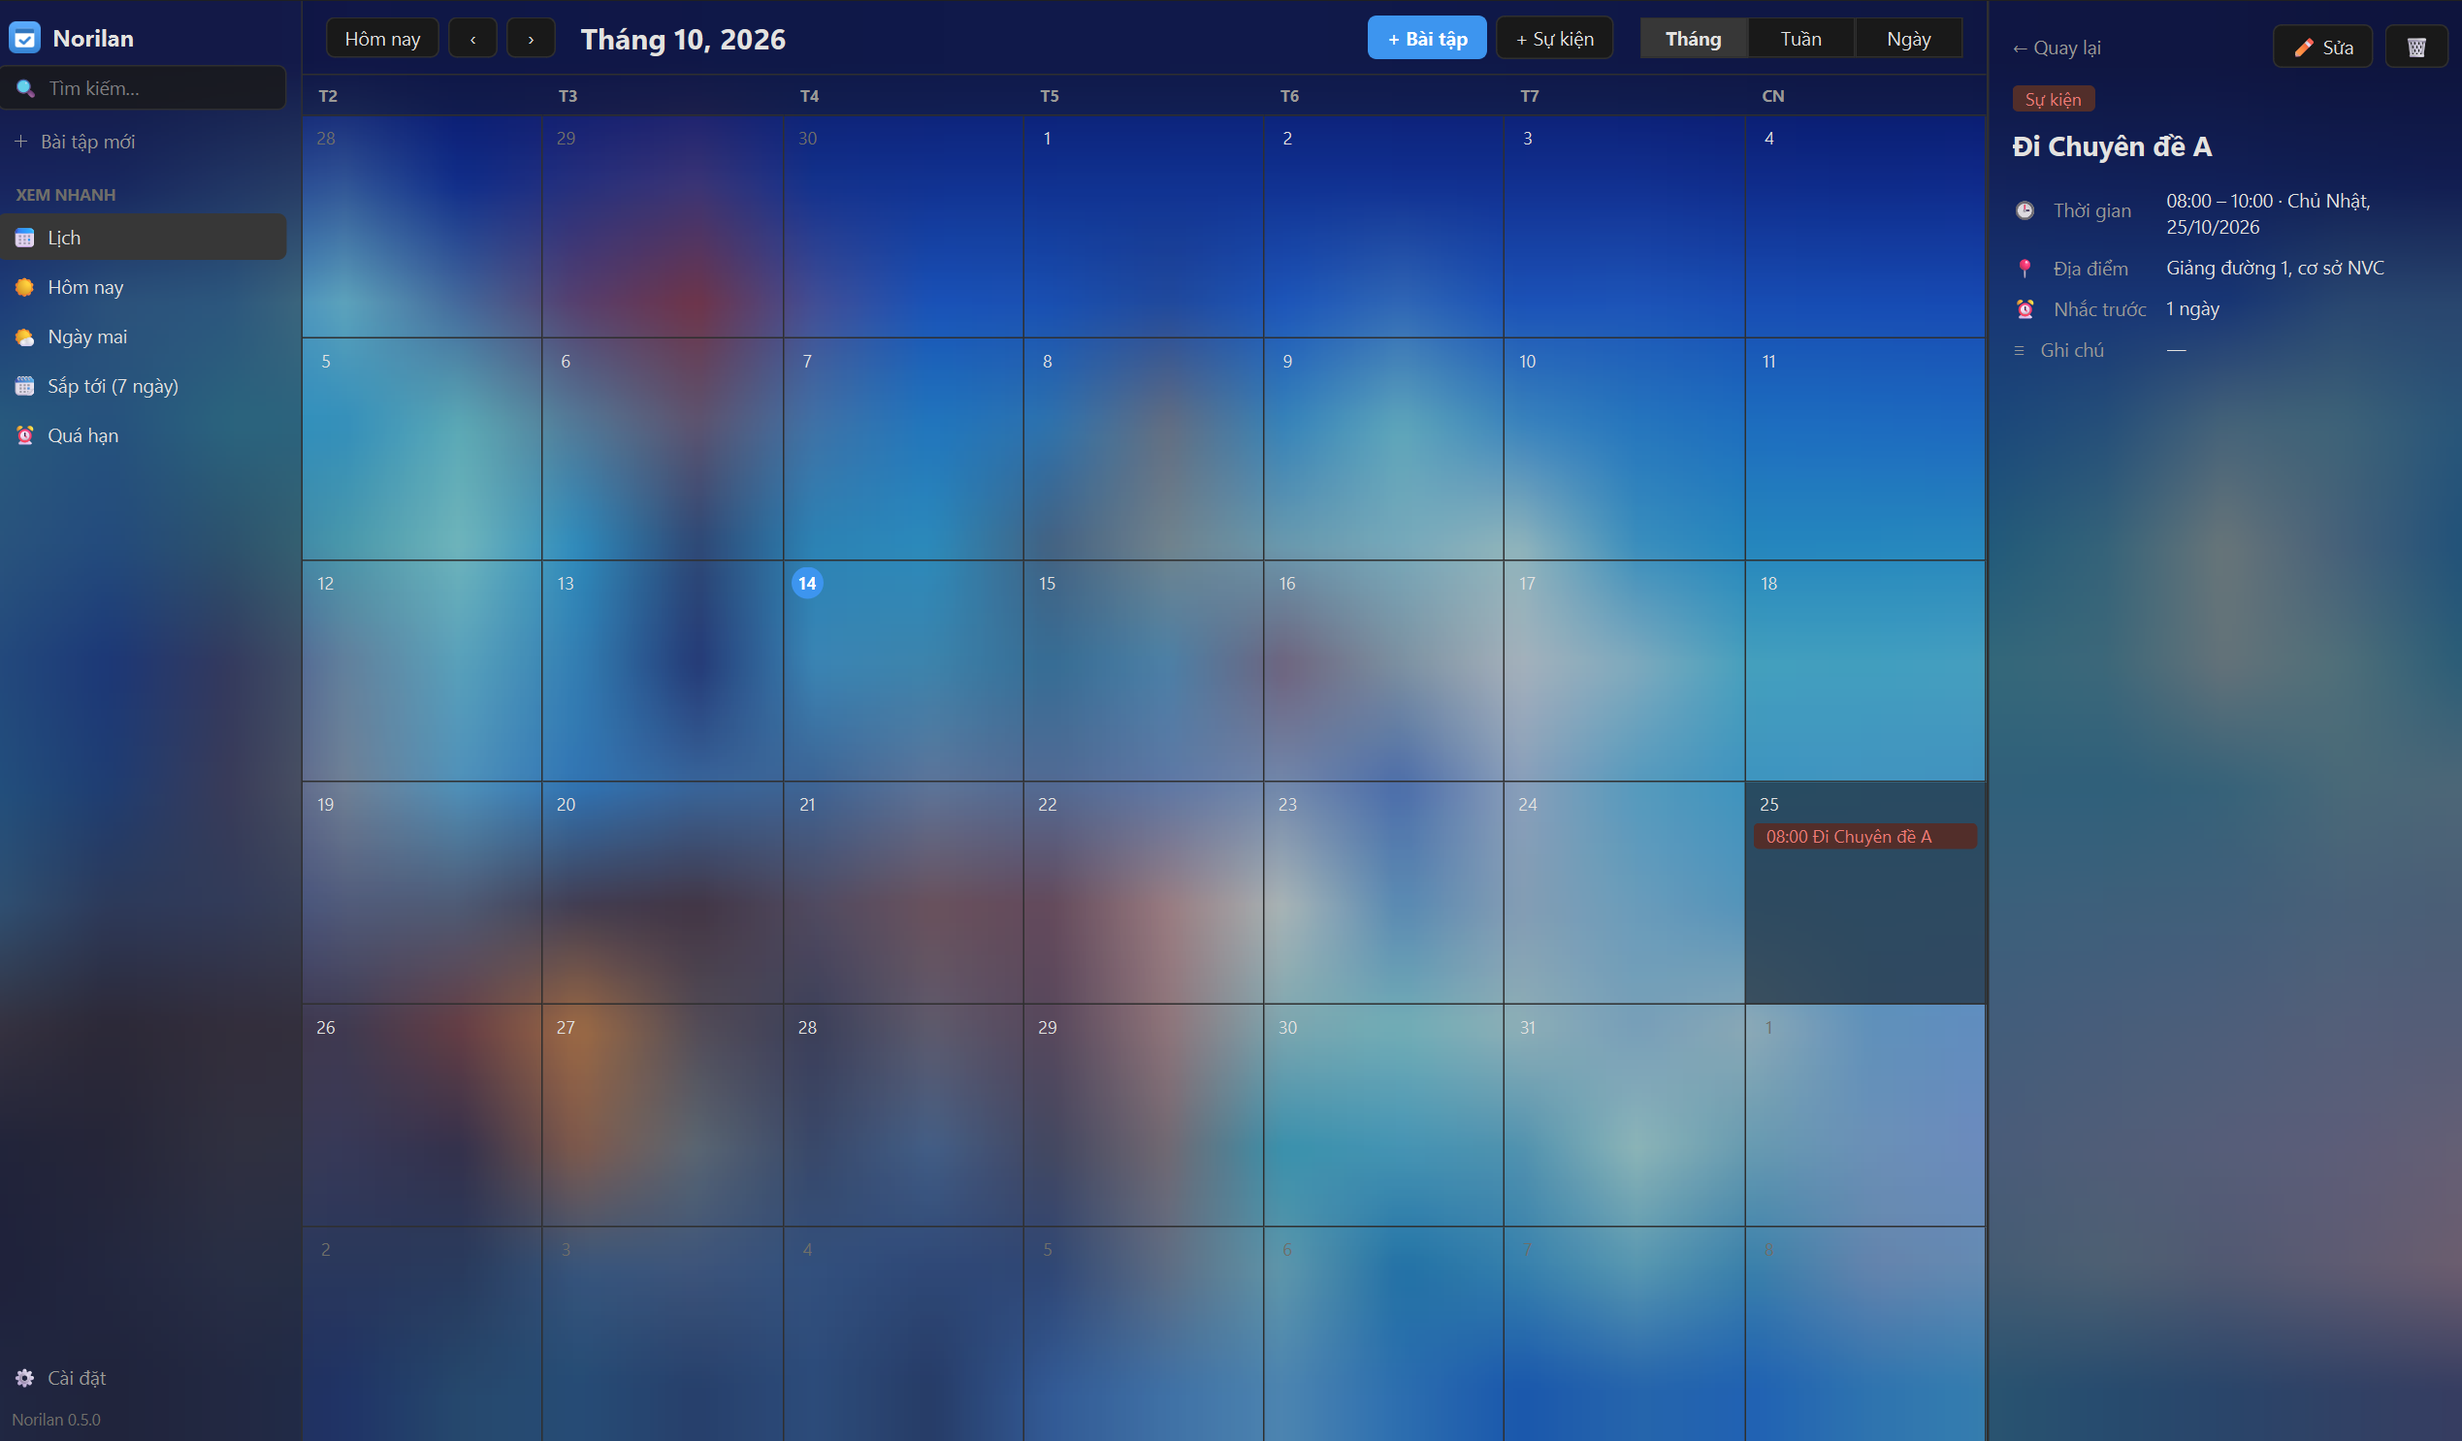
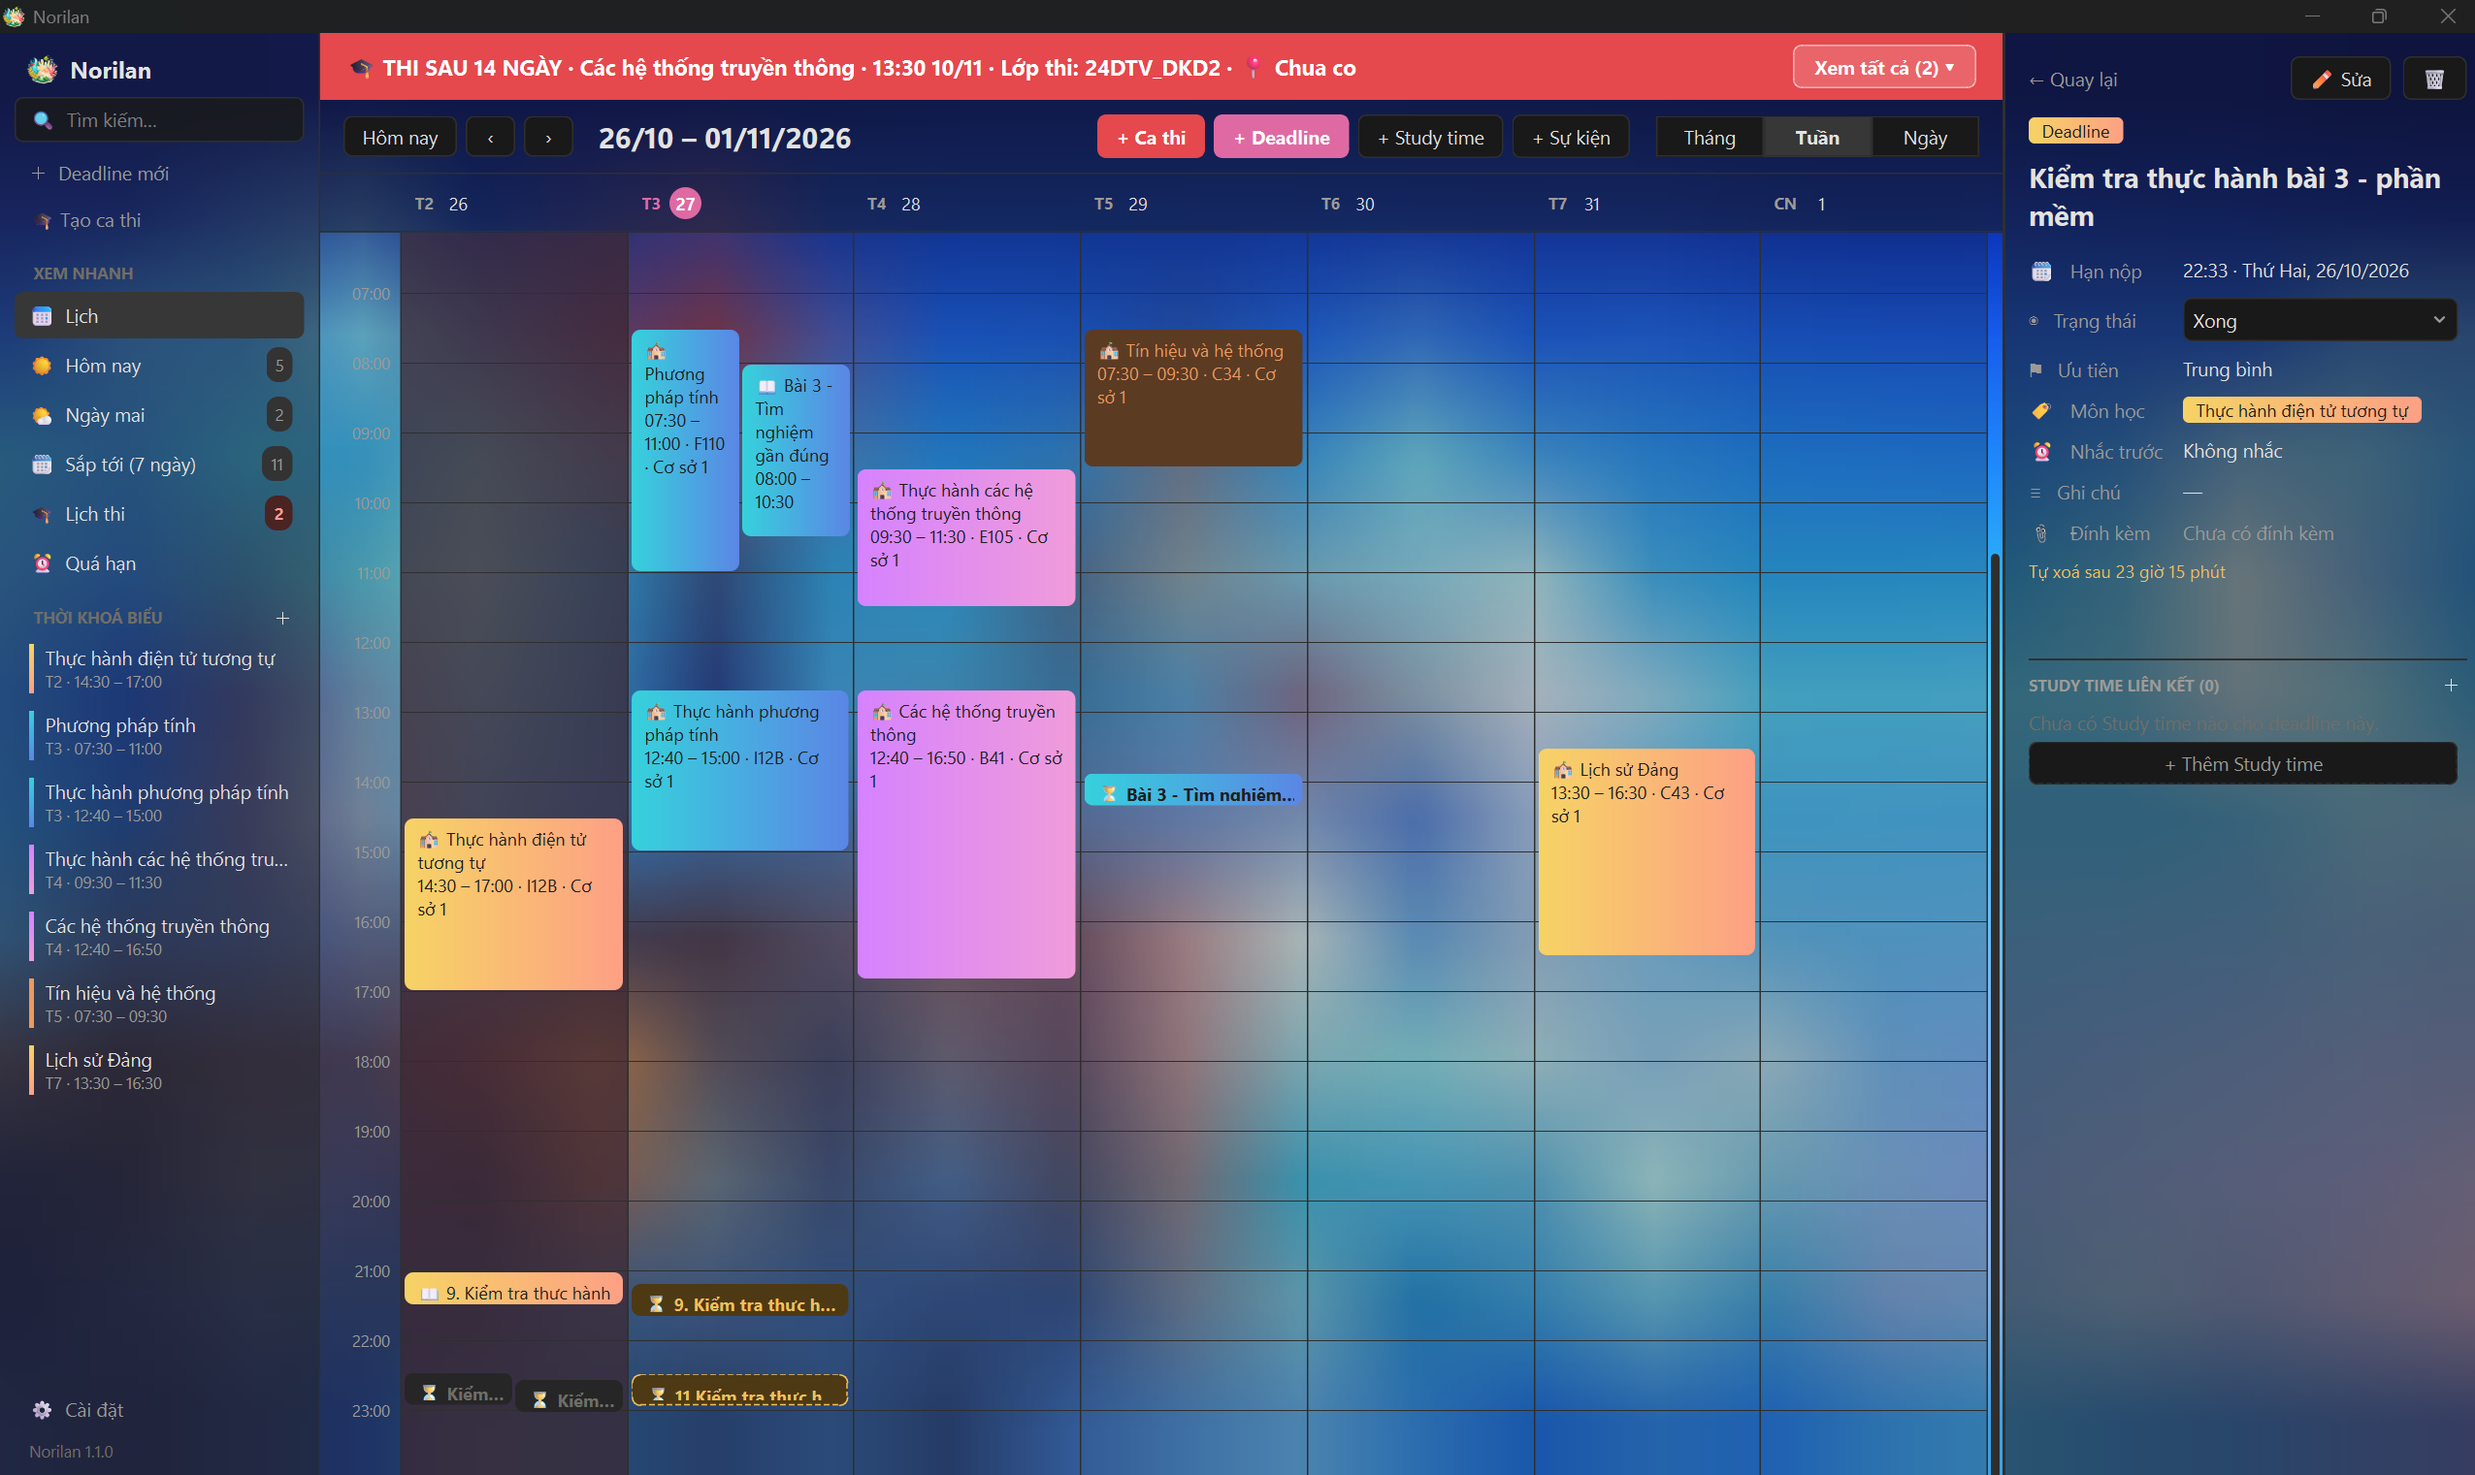
Update README screenshots

diff --git a/README.md b/README.md
@@ -31,38 +31,37 @@
 
 ## 🖼 Giao diện
 
-### Màn hình chính — Lịch tháng
+### Màn hình chính — Lịch tuần
 
 ![Màn hình chính Norilan](docs/screenshots/01_main.png)
 
-> Lịch tháng với ảnh nền mờ đẹp. Sidebar trái lọc nhanh: **Hôm nay / Ngày mai / Sắp tới / Quá hạn**.
-> Bấm vào sự kiện để xem chi tiết ngay bên phải mà không cần mở cửa sổ mới.
+> Lịch tuần/tháng/ngày với ảnh nền mờ đẹp. Sidebar trái lọc nhanh: **Hôm nay / Ngày mai / Sắp tới / Lịch thi / Quá hạn**.
+> Bấm vào mục để xem chi tiết ngay bên phải (hạn nộp, trạng thái, ưu tiên, đính kèm, *Study time liên kết*) mà không cần mở cửa sổ mới.
+> Banner đỏ phía trên đếm ngược tới kỳ thi gần nhất.
 
 ---
 
-### Tạo Sự kiện mới
+### Tạo Deadline — Có đính kèm file
 
-![Tạo sự kiện](docs/screenshots/02_create_event.png)
+![Tạo deadline với đính kèm](docs/screenshots/04_create_deadline.png)
 
-> Điền tên, chọn thời gian bắt đầu–kết thúc, địa điểm, màu sắc và bật nhắc nhở.
-> Bấm **Tạo sự kiện** để lưu.
+> Đặt hạn nộp, trạng thái, ưu tiên, môn học và **đính kèm tài liệu học tập** (file, thư mục hoặc link).
+> Tích ô *"Lưu bản sao file vào Norilan"* để file vẫn mở được dù file gốc bị xoá hay di chuyển.
 
 ---
 
-### Deadline kết hợp Study time
+### Thêm Deadline từ ảnh
 
-![Tạo Study time cho một Deadline](docs/screenshots/06_deadline_study_time.png)
+![Thêm deadline từ ảnh](docs/screenshots/05_deadline_from_image.png)
 
-> Từ một **Deadline** (panel phải), bấm **+ Thêm Study time**: hộp thoại mở sẵn với cùng tiêu đề, đã liên kết với deadline
-> và điền sẵn môn học. Phần *Study time liên kết* bên dưới liệt kê các buổi đã đặt (bấm để mở); chưa có buổi nào thì hiện
-> nút thêm nhanh. Trên lịch và danh sách, Deadline có biểu tượng ⏳, chữ *còn …* (đổi màu cảnh báo khi dưới 24 giờ) và
-> huy hiệu 📖 đếm số Study time đã đặt (0 được tô nổi bật để nhắc bạn dành thời gian làm).
+> Kéo-thả, dán (Ctrl+V) hoặc chọn ảnh chụp danh sách deadline; Norilan đọc nội dung bằng khóa API của bạn (Gemini hoặc Claude)
+> và cho bạn xem, sửa lại trước khi lưu. Khóa chỉ lưu trên máy này.
 
 ---
 
 ### Đồng hồ đếm ngược Study time
 
-![Đếm ngược Study time dạng phóng to](docs/screenshots/07_countdown_overlay.png)
+![Đếm ngược Study time dạng phóng to](docs/screenshots/03_countdown_overlay.png)
 
 > Bấm vào đồng hồ nhỏ dưới chi tiết Study time để phóng to: chữ số lớn, tên, khoảng giờ, thanh tiến độ.
 > Dưới 10 phút chữ số đổi màu cảnh báo và Norilan gửi toast nhắc sắp hết giờ. Đóng bằng `Esc`, nút ✕ hoặc bấm nền mờ.
@@ -71,28 +70,10 @@
 
 ### Cài đặt
 
-![Cài đặt](docs/screenshots/03_settings.png)
+![Cài đặt](docs/screenshots/02_settings.png)
 
-> Tuỳ chỉnh đầy đủ: chủ đề sáng/tối, màu nhấn, ảnh nền (ảnh được copy vào Norilan nên xoá file gốc vẫn không sao),
+> Tuỳ chỉnh đầy đủ: ngôn ngữ, chủ đề sáng/tối, màu nhấn, ảnh nền (ảnh được copy vào Norilan nên xoá file gốc vẫn không sao),
 > màu theo môn học, thời gian nhắc tổng hợp và dọn dẹp tự động.
-
----
-
-### Tạo Deadline — Có đính kèm file
-
-![Tạo deadline với đính kèm](docs/screenshots/04_create_task.png)
-
-> Đặt hạn nộp, trạng thái, ưu tiên, môn học và **đính kèm tài liệu học tập**.
-> Tích ô *"Lưu bản sao file vào Norilan"* để file vẫn mở được dù file gốc bị xoá hay di chuyển.
-
----
-
-### Chi tiết Deadline — Mở file đính kèm
-
-![Chi tiết deadline và mở file](docs/screenshots/05_task_detail.png)
-
-> Bấm tên file để **mở file ngay lập tức** bằng ứng dụng mặc định.
-> Hover chuột xem đường dẫn đầy đủ. Bấm biểu tượng 📁 để mở thư mục chứa file trong Explorer.
 
 ---
 
